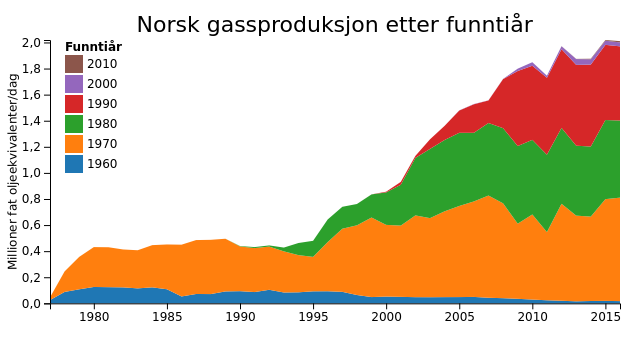
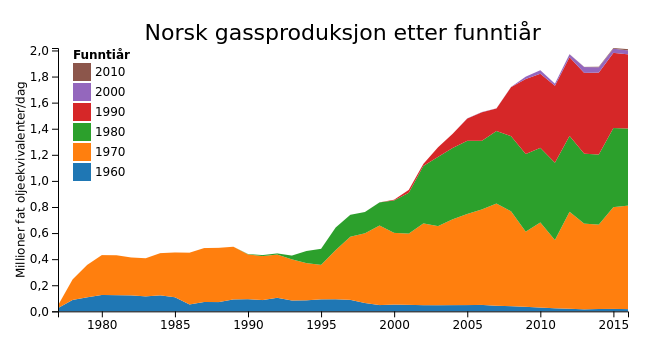
Remove old margins... Keep things simple.

diff --git a/vis/style.css b/vis/style.css
@@ -1,6 +1,5 @@
 body {
     background: white;
-    margin: 0;
 }
 
 text {
@@ -9,8 +8,4 @@ text {
 
 .heading {
     font: 22px sans-serif;
-}
-
-svg {
-    border: 0;
 }
